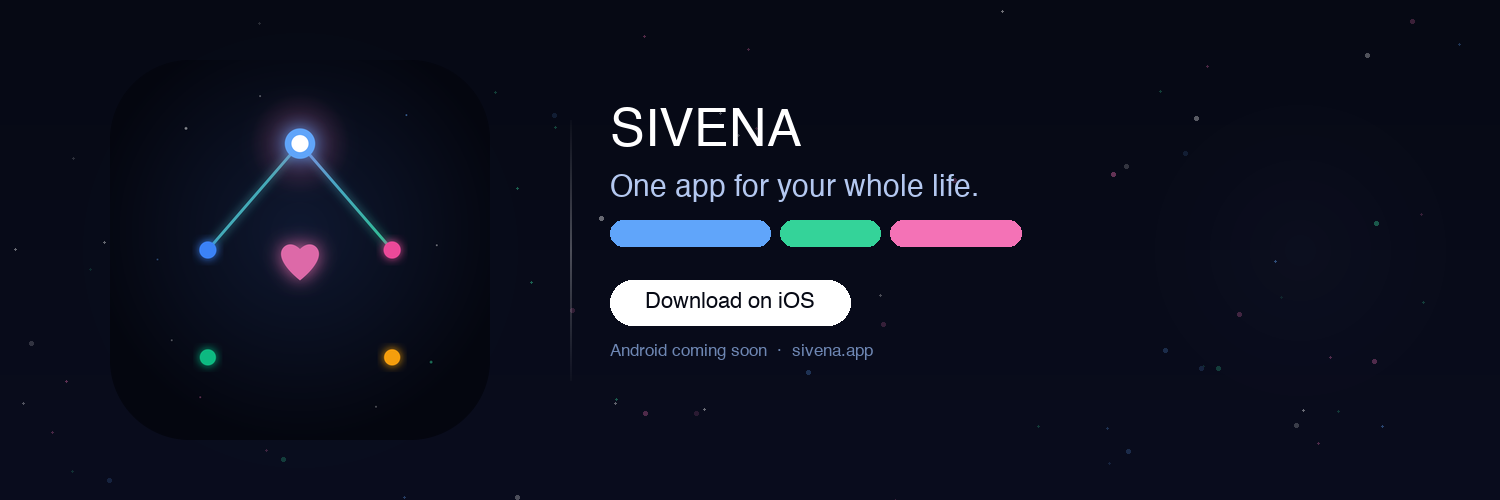
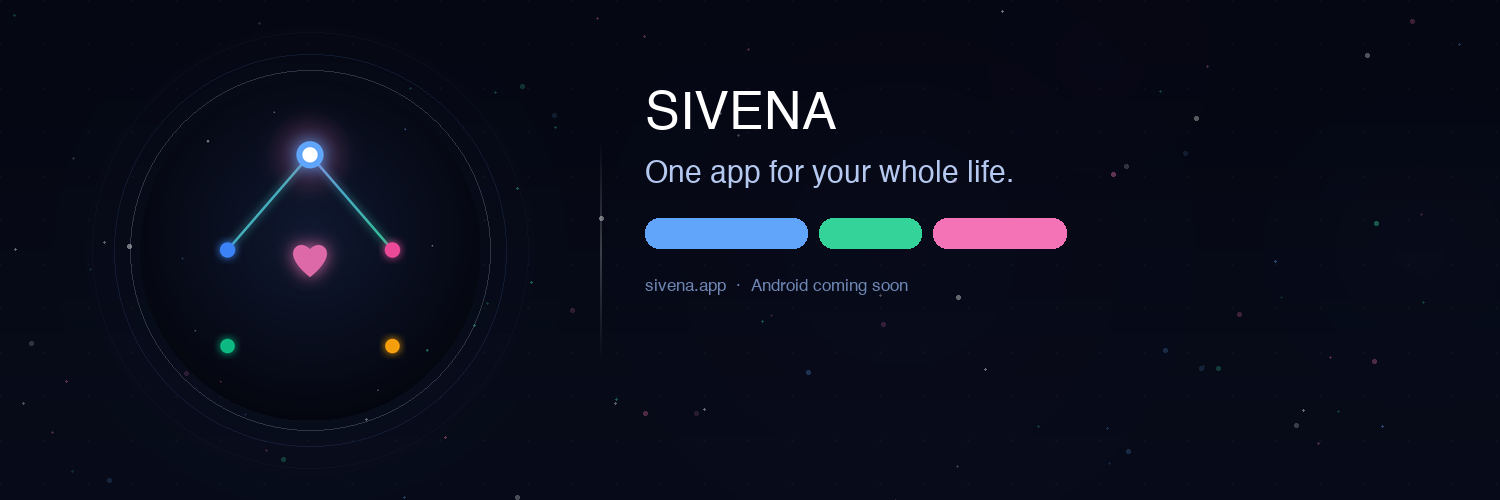
fix: payment stability, landing mobile nav, twitter header
- revenueCat: add isConfiguring guard to prevent concurrent init race
- revenueCat: let restorePurchases propagate errors for proper UX
- paywall: keep isLoading=true during auto-retry window (prevents purchase with empty packages)
- landing: hide nav download button on mobile, raise mobile-menu z-index to 210 (above nav), add backdrop tap-to-close
- twitter-header: circle-clip icon, remove download button, layered glows + dot grid

diff --git a/apps/mobile/src/services/revenueCat.ts b/apps/mobile/src/services/revenueCat.ts
@@ -10,6 +10,7 @@ const IOS_API_KEY = process.env.EXPO_PUBLIC_REVENUECAT_IOS_KEY || '';
 const ANDROID_API_KEY = process.env.EXPO_PUBLIC_REVENUECAT_ANDROID_KEY || '';
 
 let isConfigured = false;
+let isConfiguring = false;
 let configureResolvers: Array<(ok: boolean) => void> = [];
 
 // Notified whenever RevenueCat pushes a CustomerInfo update (critical on Android for pending purchases)
@@ -39,11 +40,18 @@ function waitForConfig(timeoutMs = 5000): Promise<boolean> {
 
 export async function initRevenueCat(userId: string): Promise<void> {
   if (isConfigured) return;
+  // Second concurrent caller waits for the first to finish
+  if (isConfiguring) {
+    await waitForConfig(8000);
+    return;
+  }
+  isConfiguring = true;
 
   const apiKey = Platform.OS === 'ios' ? IOS_API_KEY : ANDROID_API_KEY;
   if (!apiKey) {
     console.warn('[RevenueCat] No API key configured for', Platform.OS);
-    rejectAllWaiters(); // Don't leave callers hanging for 5s
+    isConfiguring = false;
+    rejectAllWaiters();
     return;
   }
 
@@ -65,7 +73,9 @@ export async function initRevenueCat(userId: string): Promise<void> {
     resolvers.forEach((r) => r(true));
   } catch (err) {
     console.warn('[RevenueCat] init failed:', err);
-    rejectAllWaiters(); // Fail fast instead of waiting for timeout
+    rejectAllWaiters();
+  } finally {
+    isConfiguring = false;
   }
 }
 
@@ -129,14 +139,10 @@ export function getExpirationDate(info: CustomerInfo): string | null {
 export async function restorePurchases(): Promise<CustomerInfo | null> {
   if (!isConfigured) {
     const ok = await waitForConfig(5000);
-    if (!ok) return null;
+    if (!ok) throw new Error('RevenueCat not initialised');
   }
-  try {
-    return await Purchases.restorePurchases();
-  } catch (err) {
-    console.warn('[RevenueCat] restorePurchases failed:', err);
-    return null;
-  }
+  // Let errors propagate so callers can show the right message
+  return await Purchases.restorePurchases();
 }
 
 export async function logoutRevenueCat(): Promise<void> {

diff --git a/web/landing/index.html b/web/landing/index.html
@@ -91,10 +91,10 @@ img{max-width:100%;display:block;}
 .nav-dl svg{width:16px;height:16px;fill:#080B18;}
 .hamburger{display:none;flex-direction:column;gap:5px;padding:4px;}
 .hamburger span{display:block;width:22px;height:2px;background:var(--text);border-radius:2px;transition:all 0.3s;}
-@media(max-width:768px){.nav-links{display:none;}.hamburger{display:flex;}}
+@media(max-width:768px){.nav-links{display:none;}.hamburger{display:flex;}.nav-dl{display:none;}}
 
 /* ── MOBILE MENU ── */
-.mobile-menu{position:fixed;inset:0;z-index:190;background:rgba(8,11,24,0.98);backdrop-filter:blur(24px);display:flex;flex-direction:column;align-items:center;justify-content:center;gap:8px;opacity:0;pointer-events:none;transition:opacity 0.35s;}
+.mobile-menu{position:fixed;inset:0;z-index:210;background:rgba(8,11,24,0.98);backdrop-filter:blur(24px);display:flex;flex-direction:column;align-items:center;justify-content:center;gap:8px;opacity:0;pointer-events:none;transition:opacity 0.35s;}
 .mobile-menu.open{opacity:1;pointer-events:auto;}
 .mobile-menu a{font-size:28px;font-weight:300;color:var(--text2);padding:14px 0;transition:all 0.3s;transform:translateY(20px);opacity:0;}
 .mobile-menu.open a{transform:translateY(0);opacity:1;}
@@ -1041,6 +1041,7 @@ const mobileMenu = document.getElementById('mobileMenu');
 const mobileClose = document.getElementById('mobileClose');
 hamburger.addEventListener('click', () => mobileMenu.classList.add('open'));
 mobileClose.addEventListener('click', () => mobileMenu.classList.remove('open'));
+mobileMenu.addEventListener('click', (e) => { if (e.target === mobileMenu) mobileMenu.classList.remove('open'); });
 mobileMenu.querySelectorAll('a').forEach(a => a.addEventListener('click', () => mobileMenu.classList.remove('open')));
 
 // ── STARS CANVAS

diff --git a/apps/mobile/app/paywall.tsx b/apps/mobile/app/paywall.tsx
@@ -80,15 +80,15 @@ export default function PaywallScreen() {
     purchasingRef.current = false;
   }, []);
 
-  const loadOfferings = async (silent = false) => {
+  const loadOfferings = async (isRetry = false) => {
     if (retryTimerRef.current) {
       clearTimeout(retryTimerRef.current);
       retryTimerRef.current = null;
     }
-    if (!silent) {
-      setIsLoading(true);
-      setOfferingsFailed(false);
-    }
+    // Always show spinner — prevents user tapping purchase with empty packages
+    setIsLoading(true);
+    if (!isRetry) setOfferingsFailed(false);
+
     try {
       const offerings = await getOfferings();
       if (offerings?.current?.availablePackages?.length) {
@@ -105,17 +105,19 @@ export default function PaywallScreen() {
         }
         setPackages(pkgs);
         setOfferingsFailed(false);
-      } else if (!silent) {
-        // Packages empty on first try — schedule one silent retry after StoreKit settles
+        setIsLoading(false);
+      } else if (!isRetry) {
+        // Empty on first try — one auto-retry after StoreKit settles; keep spinner up
         retryTimerRef.current = setTimeout(() => loadOfferings(true), 3000);
+        // intentionally do NOT call setIsLoading(false) here
       } else {
-        // Still empty after retry — flag as failed so user can manually retry
+        // Still empty after retry — let user manually retry
         setOfferingsFailed(true);
+        setIsLoading(false);
       }
     } catch {
       setOfferingsFailed(true);
-    } finally {
-      if (!silent) setIsLoading(false);
+      setIsLoading(false);
     }
   };
 

diff --git a/misc/social/make_social.py b/misc/social/make_social.py
@@ -145,41 +145,63 @@ def make_profile(icon_rgba, fonts):
 # ── 2. Twitter Header  1500×500 ──────────────────────────
 def make_header(icon_rgba, fonts):
     W, H = 1500, 500
+
+    # Background + layered glows for depth
     img = Image.new('RGBA', (W,H))
-    vgrad(img, BG1, BG2)
-    img = glow(img, 300, H//2, 280, BLUE, 12)
-    img = glow(img, W-200, H//2, 200, (167,139,250), 8)
-    img = stars(img, n=90, seed=3)
+    vgrad(img, (5, 7, 18), (8, 12, 26))
+    img = glow(img, 310,  H//2, 320, BLUE,            14)
+    img = glow(img, 900,  H//2, 420, (80, 50, 190),    7)
+    img = glow(img, 1420, H//2, 240, (50, 100, 220),   6)
+    img = glow(img, 1100, 60,   180, (160, 40, 200),   5)
+    img = stars(img, n=100, seed=3)
+    img = dotgrid(img)
 
-    paste_icon(img, icon_rgba, 300, H//2, 380)
+    # Icon with halo rings
+    ICX, ICY, ICS = 310, H//2, 340
+    IR = ICS // 2
+    ring_ov = Image.new('RGBA', (W,H), (0,0,0,0))
+    rd = ImageDraw.Draw(ring_ov)
+    for r_add, col, a in [
+        (10, (200, 220, 255), 50),
+        (26, BLUE,            28),
+        (48, BLUE,            10),
+    ]:
+        r = IR + r_add
+        rd.ellipse([ICX-r, ICY-r, ICX+r, ICY+r], outline=(*col, a), width=1)
+    img = Image.alpha_composite(img, ring_ov)
+    paste_icon_circle(img, icon_rgba, ICX, ICY, ICS)
 
-    ov = Image.new('RGBA', (W,H), (0,0,0,0))
-    d  = ImageDraw.Draw(ov)
-    for dy in range(-130,131):
-        a = max(0, 70 - abs(dy)//2)
-        d.line([(570,H//2+dy),(571,H//2+dy)], fill=(255,255,255,a))
-    img = Image.alpha_composite(img, ov)
+    # Soft vertical separator
+    sep_ov = Image.new('RGBA', (W,H), (0,0,0,0))
+    sv = ImageDraw.Draw(sep_ov)
+    for dy in range(-150, 151):
+        a = max(0, 55 - abs(dy)//2)
+        sv.line([(600, H//2+dy),(601, H//2+dy)], fill=(255,255,255,a))
+    img = Image.alpha_composite(img, sep_ov)
 
     d = ImageDraw.Draw(img)
-    tx = 610
+    tx = 645
 
-    d.text((tx, 105), 'SIVENA', font=fonts['big'], fill=WHITE)
-    d.text((tx, 172), 'One app for your whole life.', font=fonts['med'], fill=TEXT2)
+    # Headline
+    d.text((tx, 88),  'SIVENA',                       font=fonts['big'], fill=WHITE)
+    d.text((tx, 158), 'One app for your whole life.',  font=fonts['med'], fill=TEXT2)
 
+    # Feature chips
     chips = [('Tasks & Calendar', BLUE), ('Expenses', GREEN), ('Meal Planning', PINK)]
     cx2 = tx
     for label, col in chips:
         bbox = d.textbbox((0,0), label, font=fonts['xs'])
-        bw = bbox[2]-bbox[0] + 26
-        d.rounded_rectangle([cx2,220,cx2+bw,246], radius=13, fill=(col[0],col[1],col[2],35))
-        d.rounded_rectangle([cx2,220,cx2+bw,246], radius=13, outline=(col[0],col[1],col[2],120), width=1)
-        d.text((cx2+bw//2, 233), label, font=fonts['xs'], fill=(col[0],col[1],col[2]), anchor='mm')
-        cx2 += bw + 10
+        bw   = bbox[2] - bbox[0] + 28
+        d.rounded_rectangle([cx2, 218, cx2+bw, 248], radius=14,
+                             fill=(col[0],col[1],col[2], 32))
+        d.rounded_rectangle([cx2, 218, cx2+bw, 248], radius=14,
+                             outline=(col[0],col[1],col[2], 130), width=1)
+        d.text((cx2+bw//2, 233), label, font=fonts['xs'],
+               fill=(col[0],col[1],col[2]), anchor='mm')
+        cx2 += bw + 12
 
-    d.rounded_rectangle([tx,280,tx+240,325], radius=22, fill=WHITE)
-    d.text((tx+120,302), 'Download on iOS', font=fonts['sm'], fill=BG1, anchor='mm')
-
-    d.text((tx, 342), 'Android coming soon  ·  sivena.app', font=fonts['xs'], fill=TEXT3)
+    # Website
+    d.text((tx, 277), 'sivena.app  ·  Android coming soon', font=fonts['xs'], fill=TEXT3)
 
     img = img.convert('RGB')
     p = os.path.join(OUT, 'twitter-header.png')
